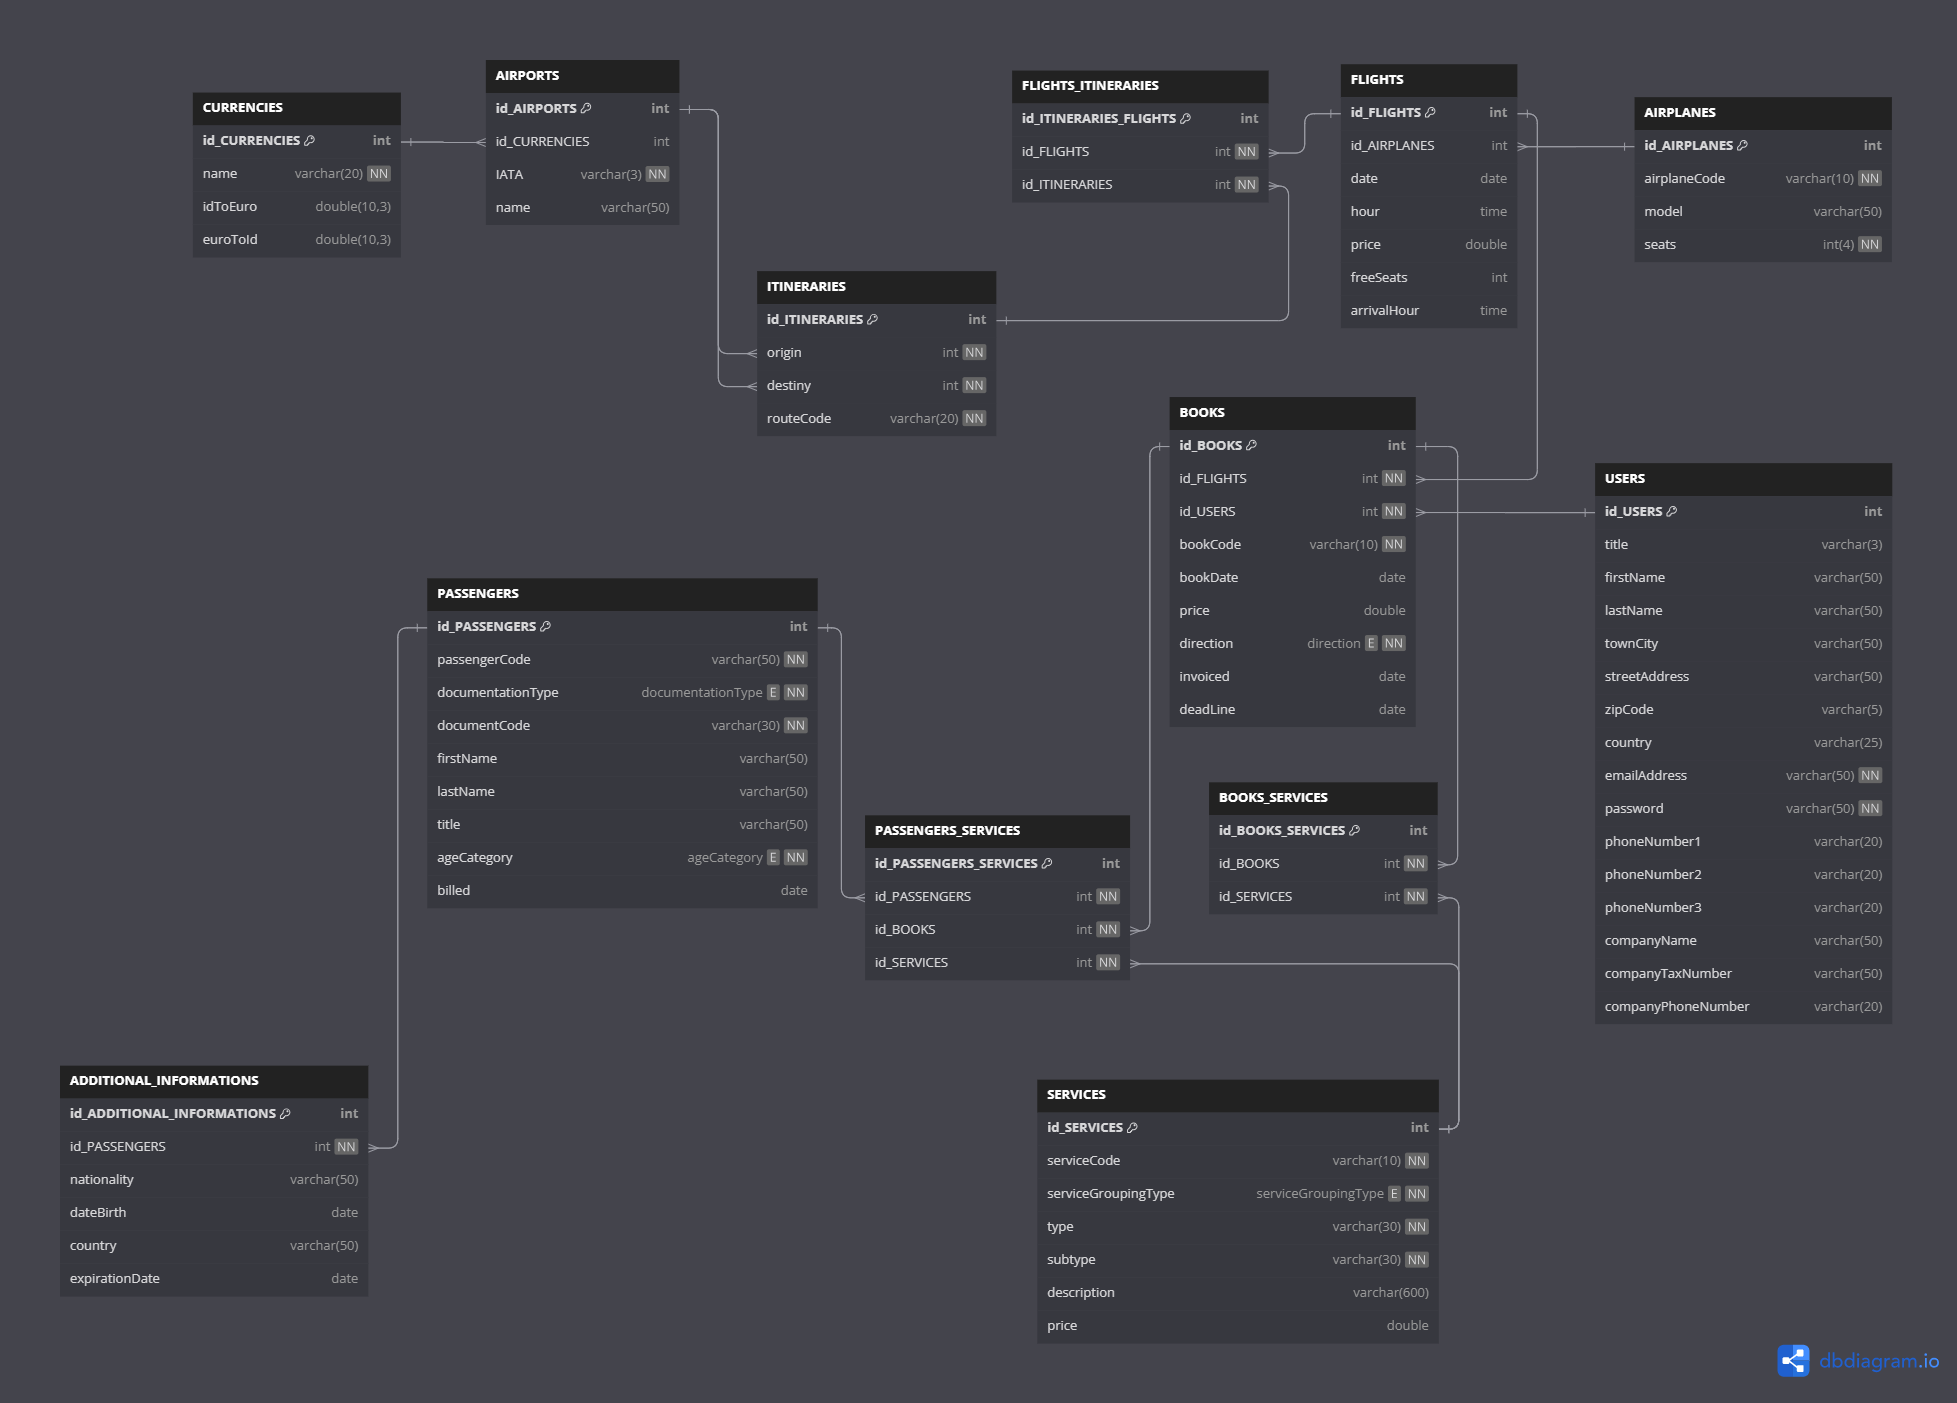
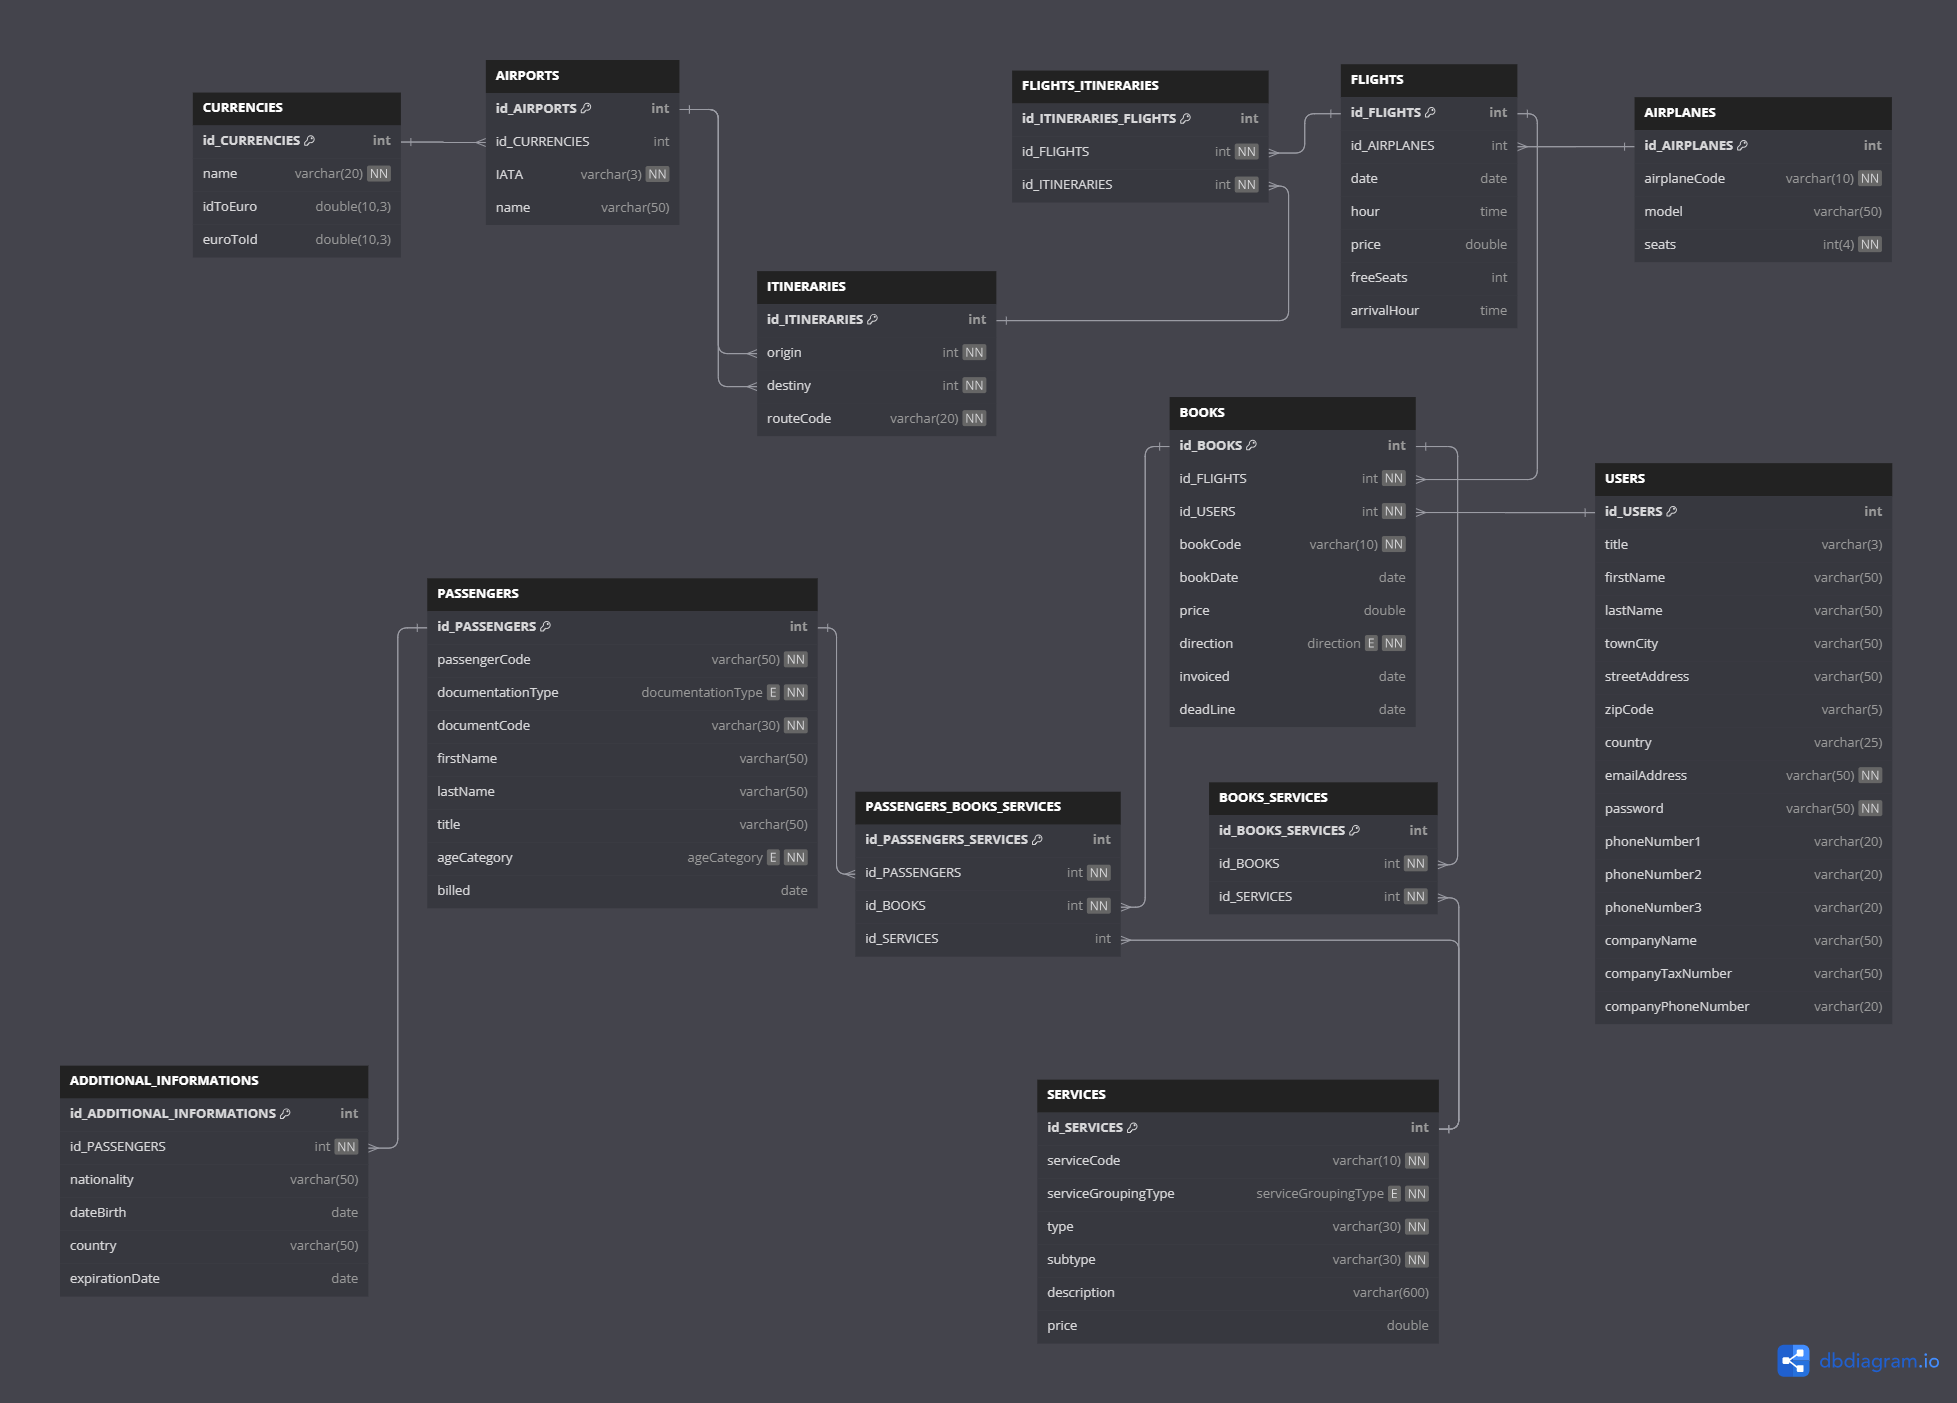
Cambios sql, modelos, diagramas

Changed region(s): [[0.4364, 0.5517, 0.5922, 0.7049]]

diff --git a/proyecto/destinyAirlines/backend/Entities/PassengerBookServiceEntity.php b/proyecto/destinyAirlines/backend/Entities/PassengerBookServiceEntity.php
@@ -1,20 +1,20 @@
 <?php
 
-class PassengerServiceEntity {
-    private $id_PASSENGERS_SERVICES;
+class PassengerBookServiceEntity {
+    private $id_PASSENGERS_BOOKS_SERVICES;
     private $id_PASSENGERS;
     private $id_BOOKS;
     private $id_SERVICES;
 
     public function __construct($params = []) {
-        $this->id_PASSENGERS_SERVICES = $params['id_PASSENGERS_SERVICES'] ?? null;
+        $this->id_PASSENGERS_BOOKS_SERVICES = $params['id_PASSENGERS_BOOKS_SERVICES'] ?? null;
         $this->id_PASSENGERS = $params['id_PASSENGERS'] ?? null;
         $this->id_BOOKS = $params['id_BOOKS'] ?? null;
         $this->id_SERVICES = $params['id_SERVICES'] ?? null;
     }
 
     public function getId_PASSENGERS_SERVICES() {
-        return $this->id_PASSENGERS_SERVICES;
+        return $this->id_PASSENGERS_BOOKS_SERVICES;
     }
 
     public function getId_PASSENGERS() {
@@ -30,7 +30,7 @@ class PassengerServiceEntity {
     }
 
     public function setId_PASSENGERS_SERVICES($value) {
-        $this->id_PASSENGERS_SERVICES = $value;
+        $this->id_PASSENGERS_BOOKS_SERVICES = $value;
     }
 
     public function setId_PASSENGERS($value) {

diff --git a/proyecto/destinyAirlines/backend/Models/BaseModel.php b/proyecto/destinyAirlines/backend/Models/BaseModel.php
@@ -75,4 +75,21 @@ abstract class BaseModel
     {
         return $this->con->rollBack();
     }
+
+    protected function cleanData($myString){
+
+        $restrictedWords=["<script>","</script>","<script src","<script type=","SELECT * FROM","SELECT "," SELECT ","DELETE FROM","INSERT INTO","DROP TABLE","DROP DATABASE","TRUNCATE TABLE","SHOW TABLES","SHOW DATABASES","<?php","?>","--","^","<",">","==","=",";","::"];
+
+        $myString=trim($myString);
+        $myString=stripslashes($myString);
+
+        foreach($restrictedWords as $restrictedWord){
+            $myString=str_ireplace($restrictedWord, "", $myString);
+        }
+
+        $myString=trim($myString);
+        $myString=stripslashes($myString);
+
+        return $myString;
+    }
 }

diff --git a/proyecto/destinyAirlines/backend/Database/Database.php b/proyecto/destinyAirlines/backend/Database/Database.php
@@ -10,9 +10,10 @@ final class Database
       $this->conn = new PDO("mysql:host=" . $config['host'] . ";dbname=" . $config['dbname'] . ";port=" . $config['port'], $config['username'], $config['password']);
       // set the PDO error mode to exception
       $this->conn->setAttribute(PDO::ATTR_ERRMODE, PDO::ERRMODE_EXCEPTION);
-      echo "Conexión exitosa";
+      $this->conn->exec("SET CHARACTER SET utf8");
+      echo "Succesfull database connection";
     } catch (PDOException $e) {
-      echo "Conexión fallida: " . $e->getMessage();
+      echo "Fail database connection: " . $e->getMessage();
     }
   }
 

diff --git a/proyecto/destinyAirlines/backend/Models/PassengerBookServiceModel.php b/proyecto/destinyAirlines/backend/Models/PassengerBookServiceModel.php
@@ -1,8 +1,8 @@
 <?php
 require_once "./Models/BaseModel.php";
-class PassengerModel extends BaseModel
+class PassengerBookServiceModel extends BaseModel
 {
-    private const table = "PASSENGERS_SERVICES";
+    private const table = "PASSENGERS_BOOKS_SERVICES";
 
     public function __construct()
     {

diff --git a/proyecto/destinyAirlines/backend/Models/BookModel.php b/proyecto/destinyAirlines/backend/Models/BookModel.php
@@ -1,6 +1,6 @@
 <?php
 require_once "./Models/BaseModel.php";
-class BooksModel extends BaseModel
+class BookModel extends BaseModel
 {
     private const table = "BOOKS";
 
